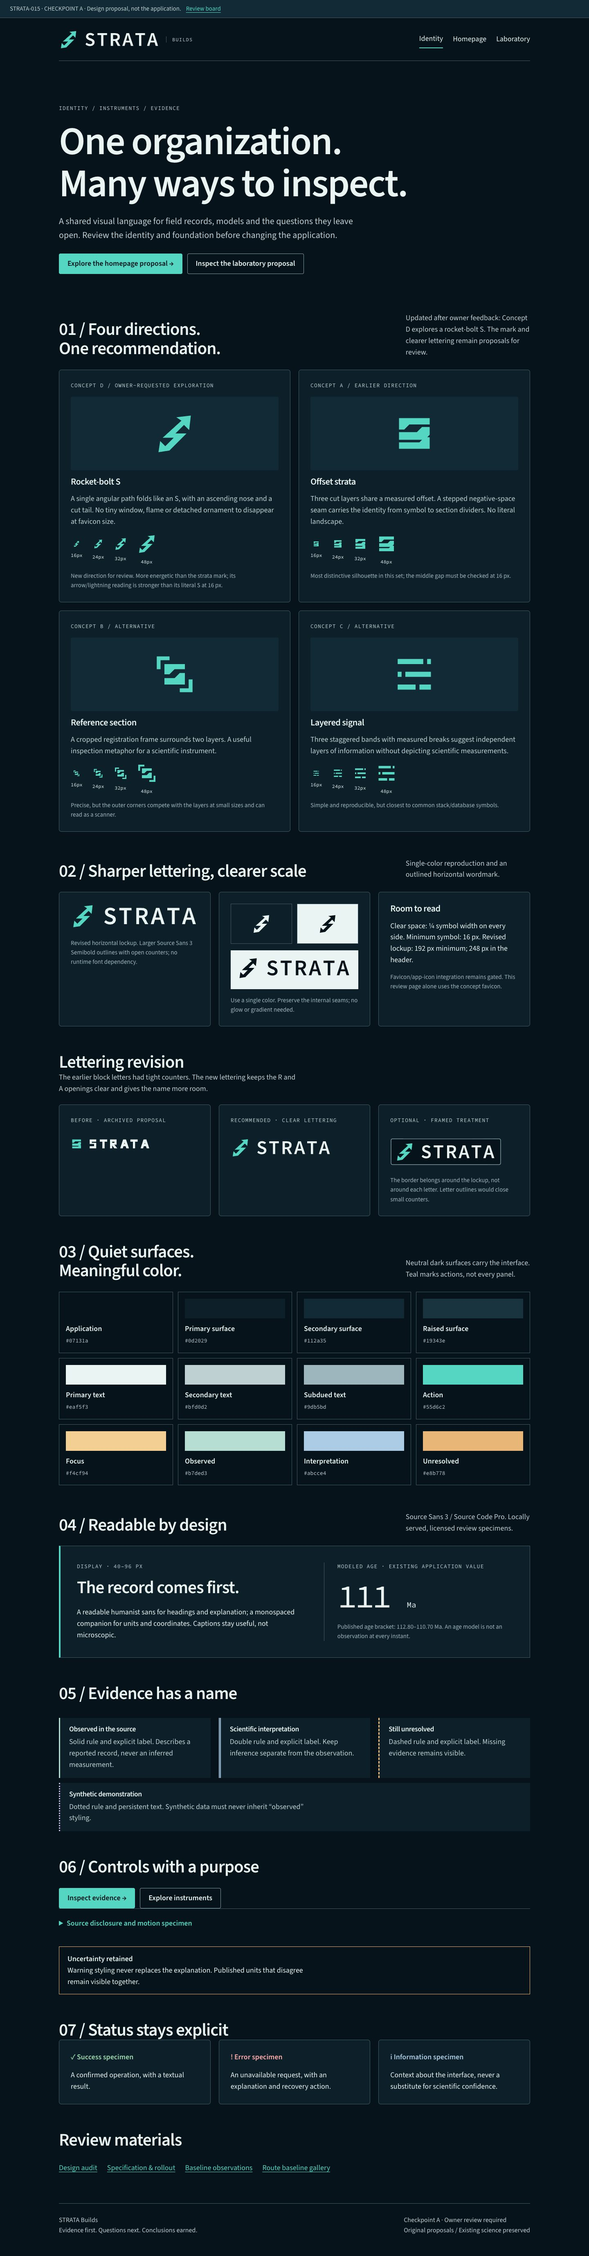
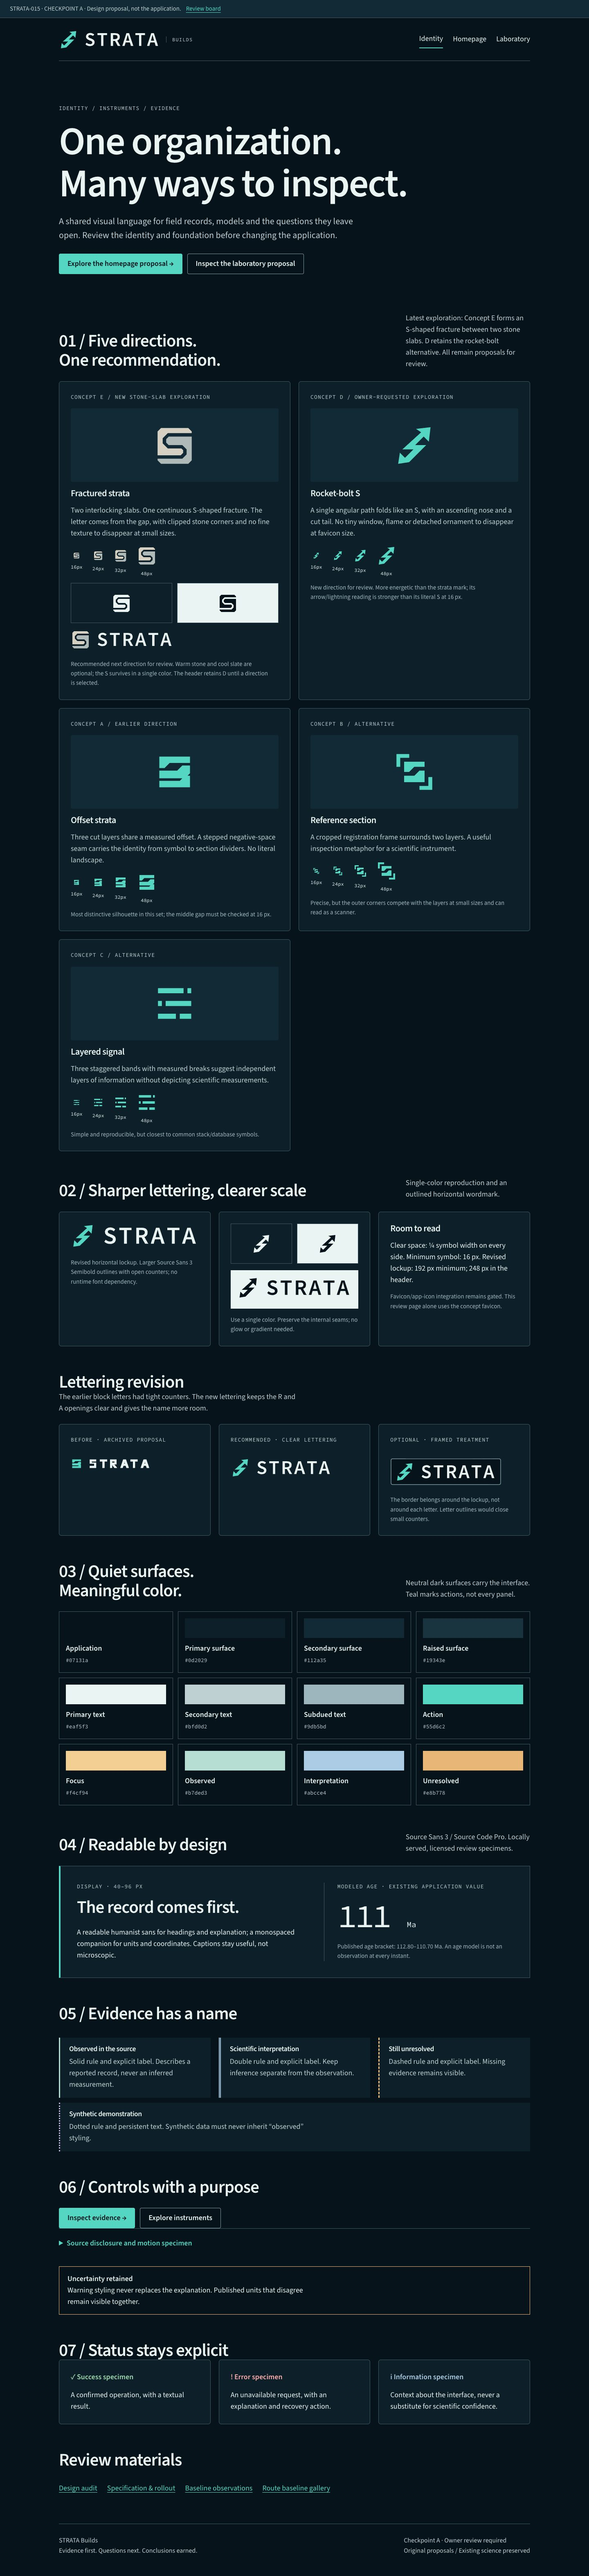
Explore two stone slabs with an S-shaped fracture

diff --git a/docs/strata-015/index.html b/docs/strata-015/index.html
@@ -51,12 +51,12 @@
       </section>
       <section>
         <div class="section-heading">
-          <h2>01 / Four directions.<br />One recommendation.</h2>
+          <h2>01 / Five directions.<br />One recommendation.</h2>
           <p>
-            Updated after owner feedback: Concept D explores a rocket-bolt S. The mark and clearer lettering remain proposals for review.
+            Latest exploration: Concept E forms an S-shaped fracture between two stone slabs. D retains the rocket-bolt alternative. All remain proposals for review.
           </p>
         </div>
-        <div class="grid concept-grid"><article class="panel"><p class="eyebrow">Concept D / Owner-requested exploration</p><div class="mark-field"><img src="assets/concept-d.svg" alt="Rocket-bolt S concept"></div><h3>Rocket-bolt S</h3><p class="muted">A single angular path folds like an S, with an ascending nose and a cut tail. No tiny window, flame or detached ornament to disappear at favicon size.</p><div class="sizes"><span><img src="assets/concept-d.svg" width="16" height="16" alt="16 pixel rocket-bolt S">16px</span><span><img src="assets/concept-d.svg" width="24" height="24" alt="24 pixel rocket-bolt S">24px</span><span><img src="assets/concept-d.svg" width="32" height="32" alt="32 pixel rocket-bolt S">32px</span><span><img src="assets/concept-d.svg" width="48" height="48" alt="48 pixel rocket-bolt S">48px</span></div><p class="caption">New direction for review. More energetic than the strata mark; its arrow/lightning reading is stronger than its literal S at 16 px.</p></article>
+        <div class="grid concept-grid"><article class="panel"><p class="eyebrow">Concept E / New stone-slab exploration</p><div class="mark-field"><img src="assets/concept-e.svg" alt="Two stone slabs separated by an S-shaped fracture"></div><h3>Fractured strata</h3><p class="muted">Two interlocking slabs. One continuous S-shaped fracture. The letter comes from the gap, with clipped stone corners and no fine texture to disappear at small sizes.</p><div class="sizes"><span><img src="assets/concept-e.svg" width="16" height="16" alt="16 pixel fractured strata">16px</span><span><img src="assets/concept-e.svg" width="24" height="24" alt="24 pixel fractured strata">24px</span><span><img src="assets/concept-e.svg" width="32" height="32" alt="32 pixel fractured strata">32px</span><span><img src="assets/concept-e.svg" width="48" height="48" alt="48 pixel fractured strata">48px</span></div><div class="mono-pair"><div><img src="assets/stone-mono-light.svg" alt="Stone S in one light color"></div><div class="light"><img src="assets/stone-mono-dark.svg" alt="Stone S in one dark color"></div></div><img src="assets/stone-lockup.svg" width="252" alt="Fractured strata symbol with the clear STRATA wordmark"><p class="caption">Recommended next direction for review. Warm stone and cool slate are optional; the S survives in a single color. The header retains D until a direction is selected.</p></article><article class="panel"><p class="eyebrow">Concept D / Owner-requested exploration</p><div class="mark-field"><img src="assets/concept-d.svg" alt="Rocket-bolt S concept"></div><h3>Rocket-bolt S</h3><p class="muted">A single angular path folds like an S, with an ascending nose and a cut tail. No tiny window, flame or detached ornament to disappear at favicon size.</p><div class="sizes"><span><img src="assets/concept-d.svg" width="16" height="16" alt="16 pixel rocket-bolt S">16px</span><span><img src="assets/concept-d.svg" width="24" height="24" alt="24 pixel rocket-bolt S">24px</span><span><img src="assets/concept-d.svg" width="32" height="32" alt="32 pixel rocket-bolt S">32px</span><span><img src="assets/concept-d.svg" width="48" height="48" alt="48 pixel rocket-bolt S">48px</span></div><p class="caption">New direction for review. More energetic than the strata mark; its arrow/lightning reading is stronger than its literal S at 16 px.</p></article>
           <article class="panel">
             <p class="eyebrow">Concept A / Earlier direction</p>
             <div class="mark-field">

diff --git a/docs/STRATA-015-DESIGN-SPEC.md b/docs/STRATA-015-DESIGN-SPEC.md
@@ -18,13 +18,15 @@ STRATA is the organizing identity; Builds names the engineering platform. Instru
 
 | D · Rocket-bolt S | One angular zigzag, ascending nose and cut tail on a 48-unit grid | More energetic; uninterrupted silhouette without fragile detail | Arrow/lightning reading is stronger than literal S at 16 px | Current owner-requested exploration; not final |
 
-Assets in `strata-015/assets/`: `concept-a.svg`, `concept-b.svg`, `concept-c.svg`, `concept-d.svg`, `symbol.svg`, `mono-light.svg`, `mono-dark.svg`, `horizontal-lockup.svg`. All symbol geometry is original. Following the owner’s request for sharper lettering and a thunderbolt-shaped rocket S, the working header uses Concept D and Source Sans 3 Semibold letters converted to paths from the pinned licensed font below. Those letterforms are Adobe’s, not claimed as original. There are no raster traces, gradients, filters, external references or runtime font dependencies in the SVG. `horizontal-lockup-v1.svg` preserves the earlier custom block lettering. `horizontal-lockup-framed.svg` offers an optional perimeter border; letter strokes are not outlined, to keep counters open. Kerning and recognition still require owner review.
+| E · Fractured strata | Exactly two clipped slab paths separated by a continuous angular S-shaped gap | The negative-space letter directly connects to geological layers; survives in monochrome | Interlocking slabs are symbolic, not a measured geological cross-section | Recommended next review direction after owner stone-slab suggestion |
 
-A was initially recommended; D now explores the owner’s explicit direction. Neither is approved or a proven legally unique trademark. No comprehensive trademark/confusability search or owner recognition test has been completed. Before final adoption, compare the chosen silhouette against relevant science/software brands and test unaided recognition; geometric stacked marks are a crowded category. Do not claim market uniqueness from an original drawing alone.
+Assets in `strata-015/assets/`: `concept-a.svg`, `concept-b.svg`, `concept-c.svg`, `concept-d.svg`, `concept-e.svg`, `stone-lockup.svg`, `stone-mono-light.svg`, `stone-mono-dark.svg`, `symbol.svg`, `mono-light.svg`, `mono-dark.svg`, `horizontal-lockup.svg`. All symbol geometry is original. Following the owner’s request for sharper lettering and a thunderbolt-shaped rocket S, the working header uses Concept D and Source Sans 3 Semibold letters converted to paths from the pinned licensed font below. Those letterforms are Adobe’s, not claimed as original. There are no raster traces, gradients, filters, external references or runtime font dependencies in the SVG. `horizontal-lockup-v1.svg` preserves the earlier custom block lettering. `horizontal-lockup-framed.svg` offers an optional perimeter border; letter strokes are not outlined, to keep counters open. Kerning and recognition still require owner review.
+
+A was initially recommended; D explores the rocket-bolt direction and E explores the newer stone-slab suggestion. None is approved or a proven legally unique trademark. No comprehensive trademark/confusability search or owner recognition test has been completed. Before final adoption, compare the chosen silhouette against relevant science/software brands and test unaided recognition; geometric stacked marks are a crowded category. Do not claim market uniqueness from an original drawing alone.
 
 ### Usage rules proposed for approval
 
-- A–C use a 32-unit grid; D uses 48 units. Clear space outside the asset: ¼ symbol width (12 units for D). Do not stretch the geometry or close the interior turns.
+- A–C use a 32-unit grid; D and E use 48 units. Clear space outside the asset: ¼ symbol width (12 units for D). Do not stretch the geometry or close the interior turns.
 - Symbol sizes: 16, 24, 32, 48 px. Use the standalone symbol below a 192 px lockup width. Review both 1× and 2× displays; header captures now cover both 1× and 2× pixel density. Header lockup is 248 px desktop and 232 px mobile; the prior header was 192 px.
 - Dark: teal symbol with pale wordmark. Light: dark monochrome symbol/wordmark. Single-color print: dark or reversed white. Never use teal body text on a pale background without measured contrast.
 - Do not stretch, rotate, add bevels/glow, put inside decorative badges or recolor individual layers as scientific categories.
@@ -124,7 +126,7 @@ Server components own shell and static framing; a small client boundary may hand
 
 ## Implementation order and review gate
 
-1. Owner reviews A/B/C/D, the requested rocket-bolt S exploration and revised wordmark, palette, type pair and two representative compositions. This is the current stopping point.
+1. Owner reviews A/B/C/D/E, the requested stone-slab and rocket-bolt S explorations and revised wordmark, palette, type pair and two representative compositions. This is the current stopping point.
 2. B: approved identity and icons; namespaced tokens; scope-preserving root shell and navigation; explicit legacy light canvas boundaries. Validate unchanged scientific text, source hashes and controls before homepage work.
 3. B: minimal foundational components and approved homepage. Add a clearly scoped `/design-system` showcase with noindex and deliberate discoverability policy. The A review lives only under `docs/strata-015`, outside Next routes/public assets.
 4. B: full quality suite, application screenshots corresponding to all baseline routes, 320/375/768/1024/1440 reflow, accessibility checks, cold-load font/bundle measurements, draft PR review. No merge without later authorization.
@@ -148,3 +150,7 @@ Automated checks support these tests but do not complete them. WCAG 2.2 AA is th
 ## Owner feedback iteration · sharper identity
 
 The owner commented on the header at a 649 px viewport: improve logo/text sharpness and explore a thunderbolt-shaped rocket S, with a border or another legibility treatment. The revised lockup uses a 32-unit cap height, wider open counters, six licensed outline glyphs and larger displayed dimensions. SVG remains resolution-independent; no `crispEdges` override is used because it would damage the diagonal silhouette. The optional frame surrounds the entire mark/name, not individual glyphs. A–C remain available so the new direction is a comparison, not an unreviewed final selection. All changes remain documentation-only.
+
+## Second owner exploration · two fractured stone slabs
+
+Concept E uses exactly two filled paths on a 48-unit grid. Their separation traces an angular S from the upper right to lower left; clipped external corners suggest stone without rock texture. The optional two-color treatment is warm stone `#D6D0C2` and cool slate `#AFB9B8`. Both single-color variants retain the gap, so color is not required to recognize the letter. `stone-lockup.svg` reuses the clearer licensed Source Sans 3 letter outlines. The primary review header still uses D; adding E is not implicit owner approval or a global identity replacement. These slab shapes are a brand abstraction, not a scientific field section.

diff --git a/docs/STRATA-015-CHECKPOINT-A.md b/docs/STRATA-015-CHECKPOINT-A.md
@@ -6,7 +6,7 @@ Branch: `strata-015/brand-design-system` from production `7690b59f4525516bff95c7
 
 ## Review in this order
 
-1. [Four logo directions](strata-015/proposals/logo-concepts.jpg): **D / Rocket-bolt S** explores the owner’s requested direction, with clearer Source Sans 3 outline lettering and optional framing. A / Offset strata, B / Reference section and C / Layered signal remain available for comparison. No mark is final.
+1. [Five logo directions](strata-015/proposals/logo-concepts.jpg): **E / Fractured strata** explores the latest suggestion: two stone slabs with an S-shaped fracture. **D / Rocket-bolt S** remains available with clearer Source Sans 3 outline lettering and optional framing. A / Offset strata, B / Reference section and C / Layered signal remain available for comparison. No mark is final.
 2. [Homepage proposal, desktop](strata-015/proposals/home-1440.jpg) · [mobile](strata-015/proposals/home-375.jpg).
 3. [Laboratory specimen, desktop](strata-015/proposals/laboratory-1440.jpg) · [mobile](strata-015/proposals/laboratory-375.jpg). This preserves representative existing text; it is not a replacement scientific instrument.
 4. [Design audit](STRATA-015-DESIGN-AUDIT.md) and [full specification](STRATA-015-DESIGN-SPEC.md), including proposed shared architecture, rollout and incomplete human accessibility checklist.
@@ -23,7 +23,7 @@ Open `http://127.0.0.1:3257/strata-015/index.html`. This is a local documentatio
 ## What is supplied
 
 - Five prioritized audit findings, actual route inventory, cascade analysis and safe migration boundaries.
-- Four original symbol concepts, revised outlined wordmark, proposed symbol, primary horizontal lockup and light/dark monochrome variants; 16/24/32/48 px specimens.
+- Five original symbol concepts, revised outlined wordmark, proposed symbol, primary horizontal lockup and light/dark monochrome variants; 16/24/32/48 px specimens.
 - Token, typography, evidence-state, motion and accessibility contracts.
 - Standalone homepage and laboratory HTML/CSS specimens, native navigation/disclosures and a small illustrative four-view switch.
 - 27 baseline images (eight routes plus navigation at 375/768/1440), 15 proposal page images at 320/375/768/1024/1440, five open-menu images, a logo comparison image, and ten revised-header captures at five widths and 1×/2× density.
@@ -74,10 +74,16 @@ Review fonts total **385,772 bytes**, locally served to the review only. This ex
 
 ## Decision requested
 
-Review the requested D rocket-bolt mark and revised lettering, color/type direction, homepage hierarchy and laboratory evidence treatment. Approve or revise this design specification before any broad CSS change or Checkpoint B implementation. This stop is explicitly required by the supplied STRATA-015 brief: **“STOP for owner review before broad CSS changes.”**
+Review the new E stone-slab mark alongside D and the revised lettering, color/type direction, homepage hierarchy and laboratory evidence treatment. Approve or revise this design specification before any broad CSS change or Checkpoint B implementation. This stop is explicitly required by the supplied STRATA-015 brief: **“STOP for owner review before broad CSS changes.”**
 
 The draft PR is a review vehicle only. No merge or production release is authorized by this checkpoint. TOOLING-014-01 remains separate; no retry of its failed adapter workflow was made. Future scientific work remains out of scope.
 
 ## Header revision after owner comment
 
 [649 px / 1× header](strata-015/proposals/identity-649-1x.png) · [320 px / 2× header](strata-015/proposals/identity-320-2x.png) · [density check results](strata-015/proposals/identity-results.json). The primary wordmark now uses licensed Source Sans 3 Semibold outlines rather than the original block glyphs. No additional font request is required by the SVG. The prior block wordmark is archived and an optional bordered version appears on the review board. Application code remains unchanged. The header was checked at 320/375/649/768/1440 px with 1× and 2× density (10 captures); all loaded correctly without page-wide overflow. The 649 px 1× and 320 px 2× captures were visually inspected. The existing 15 prototype responsive/keyboard/reduced-motion checks, 60 token contrast pairs and lint were rerun successfully for this revision.
+
+## Stone-slab alternative
+
+[Concept E presentation](strata-015/proposals/stone-concept.png) shows the two-path symbol, wordmark and 16/24/32/48 px specimens. Single-color light/dark assets are on the review board. This remains a concept; the review header retains the previous D option.
+
+Concept E validation: exactly two slab paths in color and both monochrome assets; stone/background contrast 12.23:1 and 9.36:1, monochrome 16.88:1. The 15 prototype responsive/keyboard/reduced-motion checks and lint passed again after adding E. The concept presentation was visually inspected; owner recognition/final selection is still pending. The screenshot index now contains 59 images.
